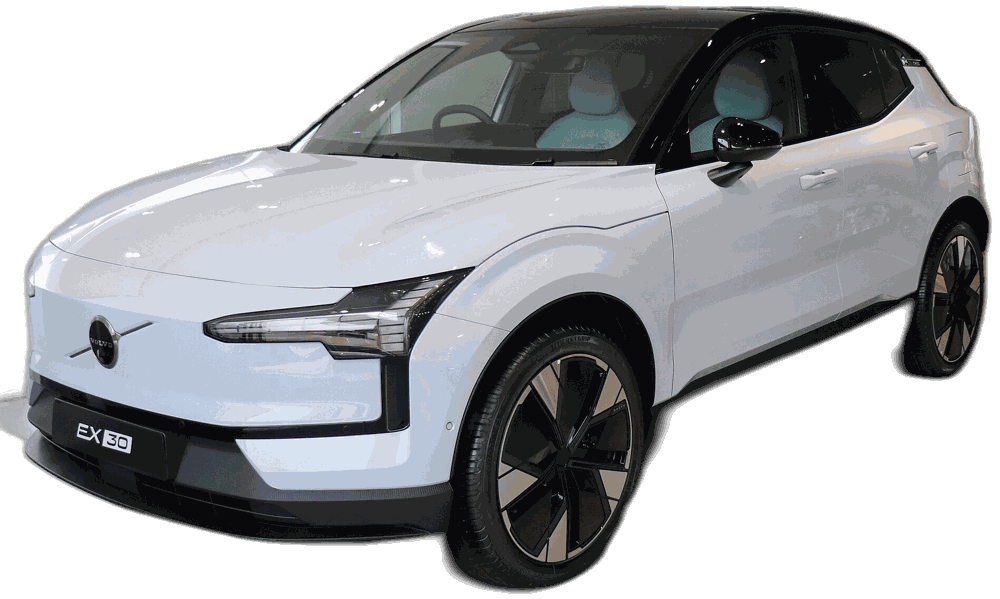
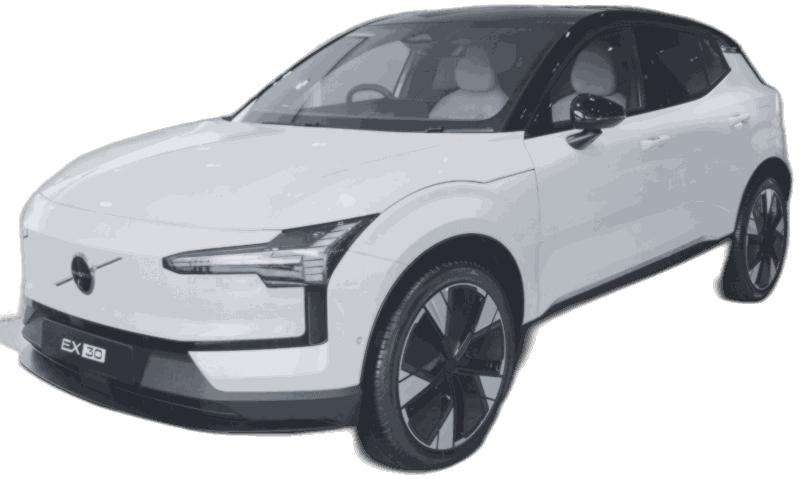
home: smaller stylized silver hero car matching the UI palette

diff --git a/frontend/src/styles/dashboard.css b/frontend/src/styles/dashboard.css
@@ -49,12 +49,12 @@
 
 .hero-car {
   position: absolute;
-  inset-inline-end: 0;
-  bottom: -6px;
-  width: 64%;
-  max-width: 600px;
-  object-fit: contain;        /* PNG cutout: show the whole car, no box */
-  filter: drop-shadow(0 24px 22px rgba(0, 0, 0, 0.18));
+  inset-inline-end: 24px;
+  bottom: 8px;
+  width: 44%;
+  max-width: 420px;
+  object-fit: contain;        /* stylized silver PNG cutout, smaller than the headline block */
+  filter: drop-shadow(0 18px 18px rgba(0, 0, 0, 0.16));
 }
 
 /* Stat tiles */
@@ -403,8 +403,10 @@
 
   .hero-car {
     position: static;
-    width: 100%;
-    margin-top: 12px;
+    width: 70%;
+    max-width: 320px;
+    margin: 12px auto 0;
+    display: block;
   }
 
   .stats-row,

diff --git a/frontend/src/components/dashboard/HeroSection.jsx b/frontend/src/components/dashboard/HeroSection.jsx
@@ -1,4 +1,4 @@
-// HeroSection: big headline, availability chip and the hero car cutout (PNG with transparent background, from a Wikimedia Commons photo)
+// HeroSection: big headline, availability chip and a stylized silver car (PNG cutout, re-toned to match the UI)
 import { useLanguage } from '../../context/LanguageContext.jsx';
 
 const HERO_PHOTO = '/cars/hero.png';

diff --git a/frontend/public/cars/CREDITS.md b/frontend/public/cars/CREDITS.md
@@ -42,4 +42,4 @@ All car photos come from Wikimedia Commons (free licenses). Backgrounds were rem
 - hyundai-elantra.png - https://commons.wikimedia.org/wiki/File:2021%20Hyundai%20Elantra%20Limited%20in%20Quartz%20White%2C%20front%20right.jpg
 - nissan-gt-r.png - https://commons.wikimedia.org/wiki/File:Nissan%20GT-R%20R35%20FL3%20T-Spec%20Millennium%20Jade%2001.jpg
 - lamborghini-huracan-evo.png - https://commons.wikimedia.org/wiki/File:Lamborghini%20Hurac%C3%A1n%20Tecnica%201X7A7430.jpg
-- hero.png - https://commons.wikimedia.org/wiki/File:2024%20Volvo%20EX30%20Front.jpg
+- hero.png (re-toned to silver to match the UI) - https://commons.wikimedia.org/wiki/File:2024%20Volvo%20EX30%20Front.jpg
